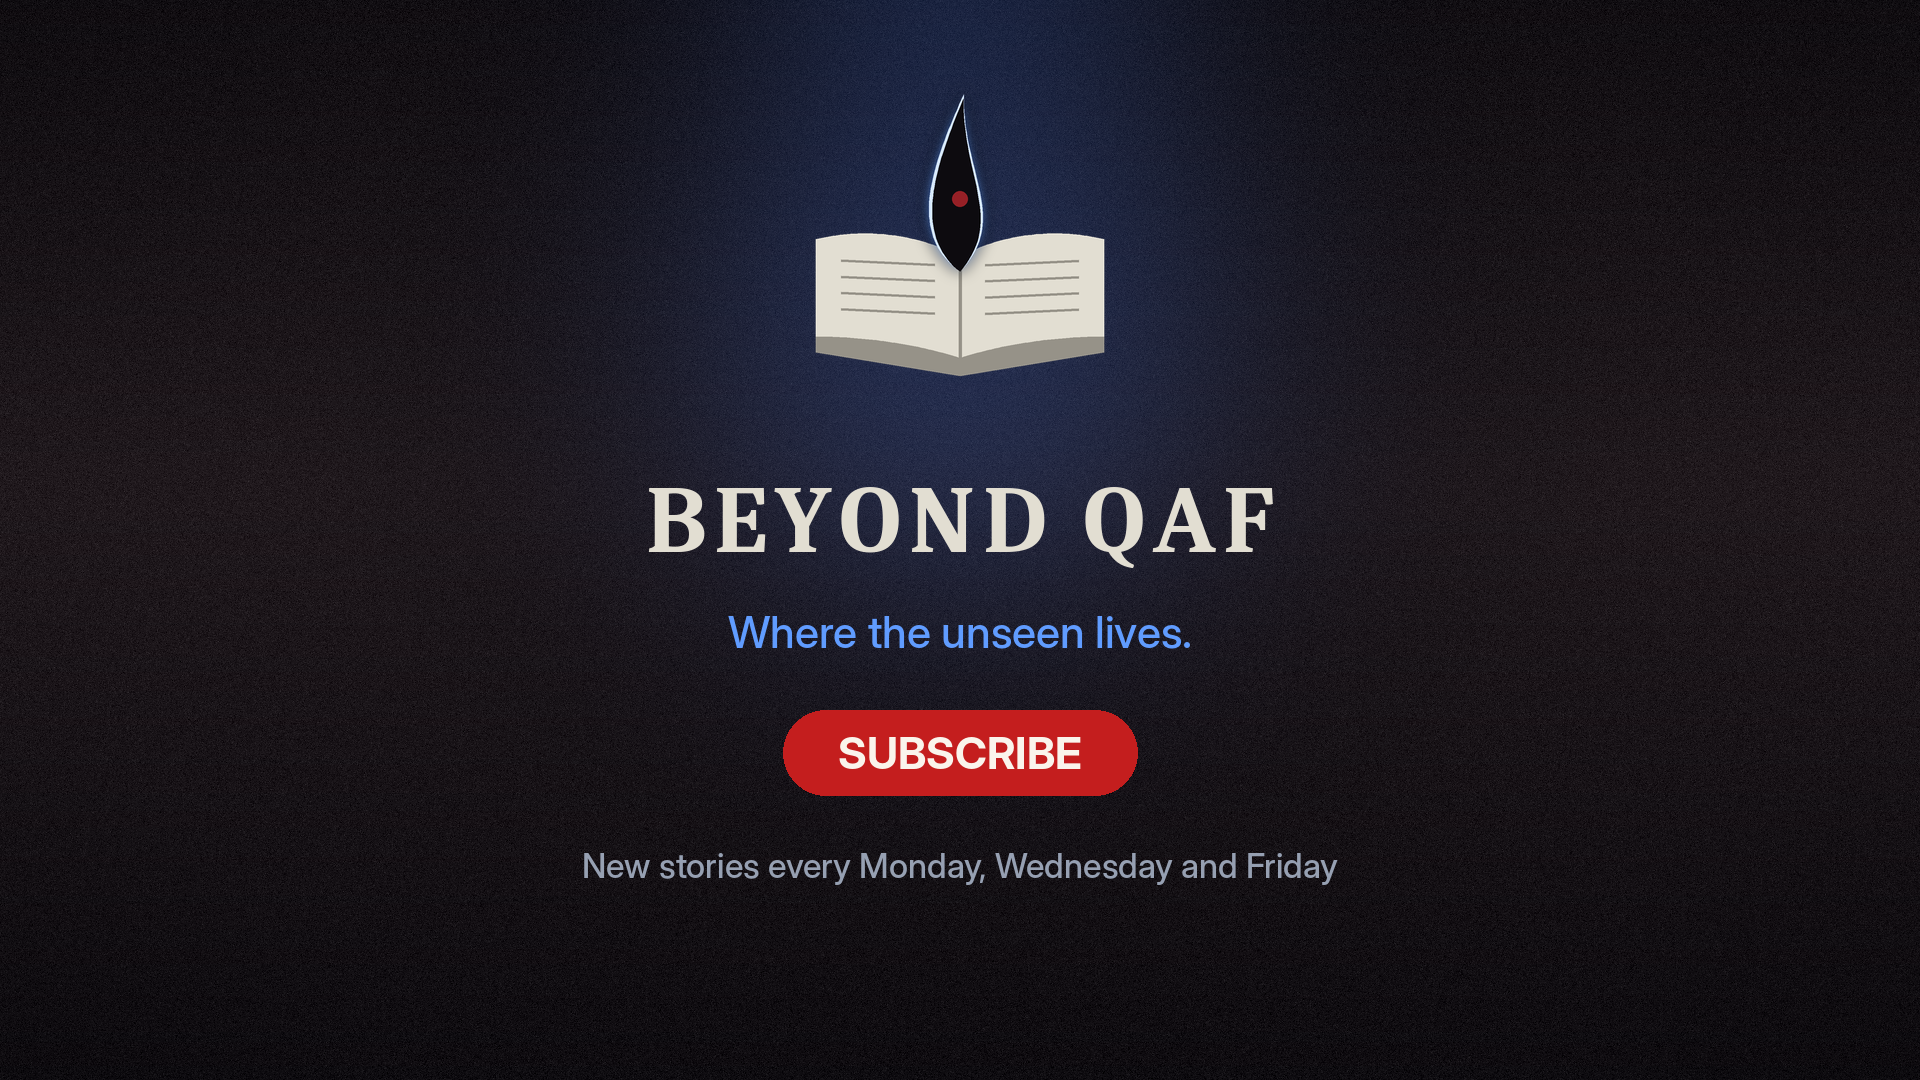
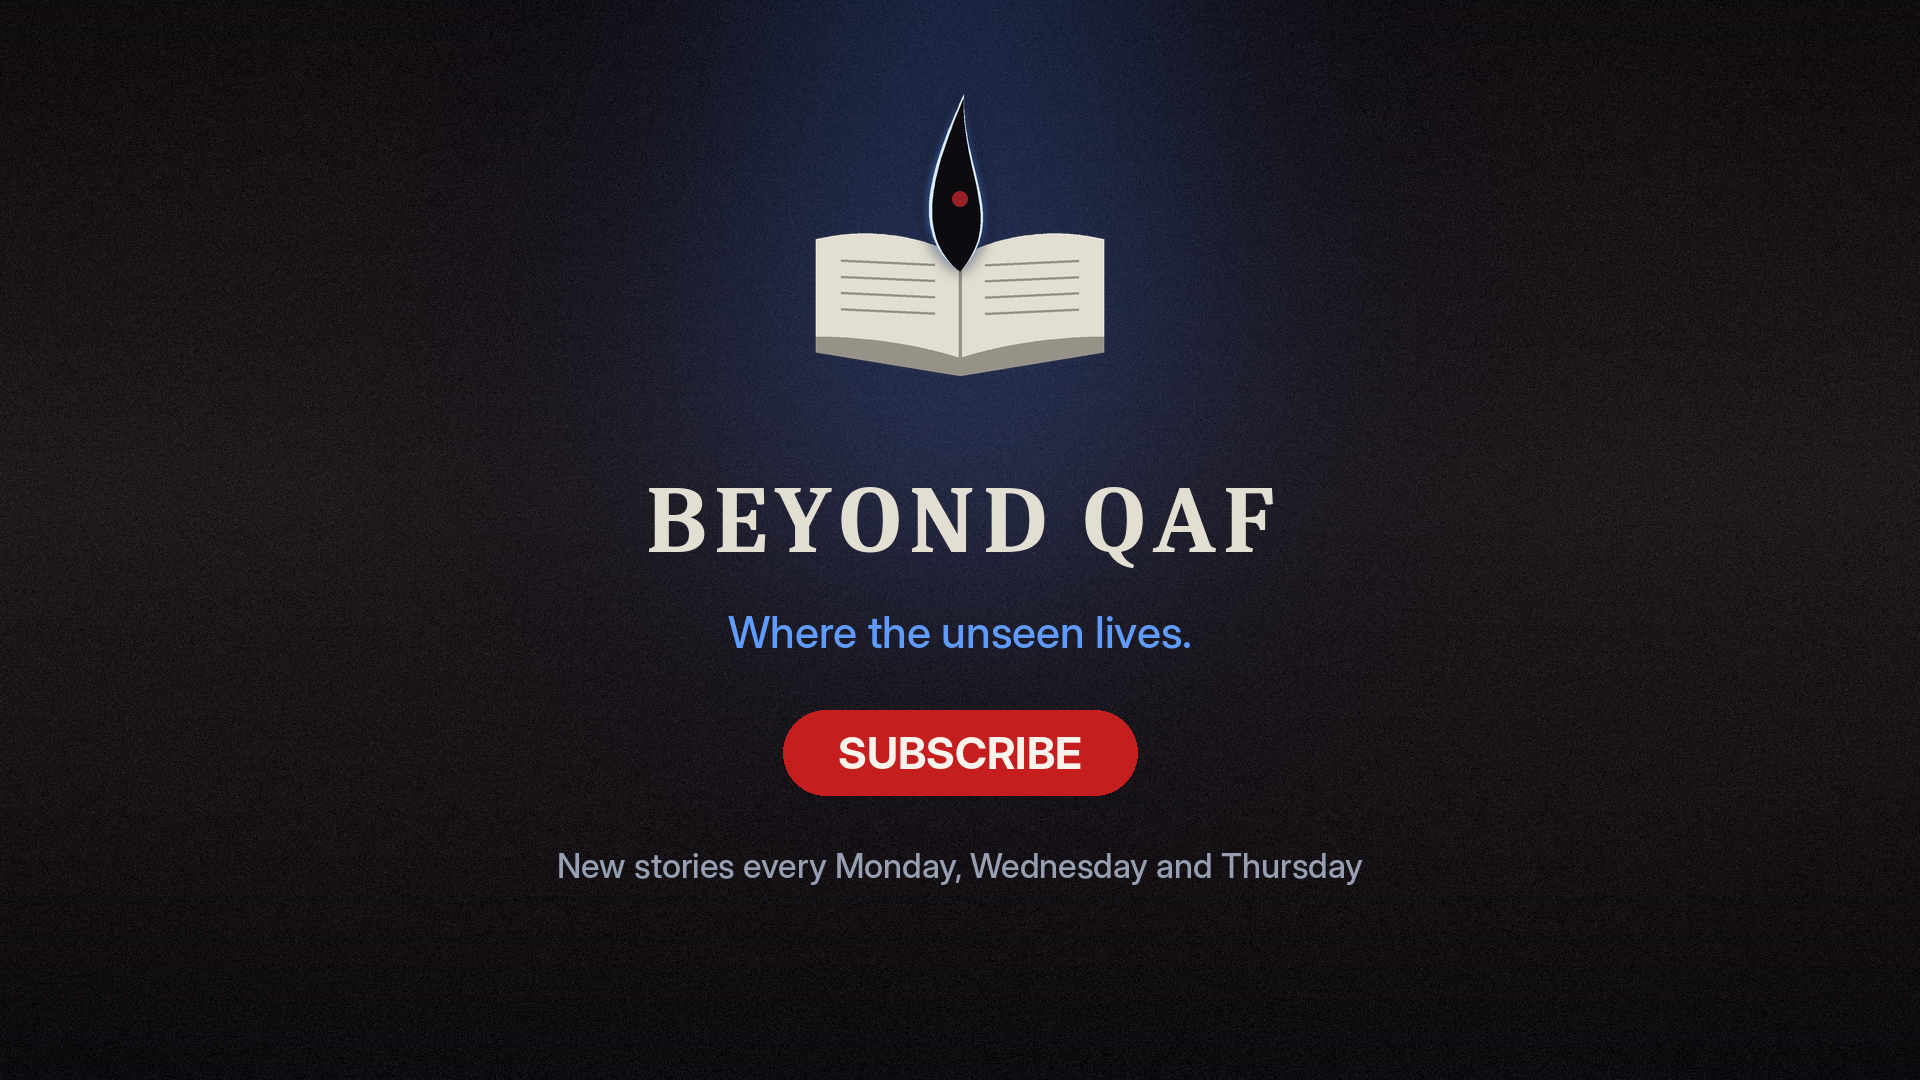
Günler: Gölgedefter Sal-Cuma-Cmt-Paz, Beyond Qaf Pzt-Çar-Per; afişler güncellendi
Claude-Session: https://claude.ai/code/session_01KEduYxbvw9kqpP4RbSKWb6

Changed region(s): [[0.2812, 0.7944, 0.7188, 0.825]]

diff --git a/brand_beyondqaf.py b/brand_beyondqaf.py
@@ -55,7 +55,7 @@ def make_outro_card(out):
     bw = d.textlength("SUBSCRIBE", font=bf) + 110
     d.rounded_rectangle([(W - bw) / 2, 710, (W + bw) / 2, 795], 42, fill=(196, 30, 30))
     center("SUBSCRIBE", bf, 726, (250, 244, 236))
-    center("New stories every Monday, Wednesday and Friday", g.font(g.INTER + "InterDisplay-Medium.otf", 34),
+    center("New stories every Monday, Wednesday and Thursday", g.font(g.INTER + "InterDisplay-Medium.otf", 34),
            845, g.SMOKE)
     im.save(out, quality=95)
     return out
@@ -76,7 +76,7 @@ def make_banner(out):
     g.spaced(d, (962, 560), "BEYOND", g.font(g.SERIF, 64), g.AMBER, track=0.32)
     g.spaced(d, (958, 625), "QAF", g.font(g.SERIF, 170), g.PARCH, track=0.10)
     d.text((966, 815), g.TAG, font=g.font(g.INTER + "InterDisplay-Medium.otf", 50), fill=g.PARCH_D)
-    d.text((966, 892), "NEW STORIES  ·  MON  ·  WED  ·  FRI",
+    d.text((966, 892), "NEW STORIES  ·  MON  ·  WED  ·  THU",
            font=g.font(g.INTER + "InterDisplay-Bold.otf", 34), fill=g.SMOKE)
     im.save(out, quality=92)
     return out

diff --git a/brand_golgedefter.py b/brand_golgedefter.py
@@ -274,9 +274,9 @@ def make_banner(out):
     d = ImageDraw.Draw(im)
     spaced(d, (960, 570), NAME, font(SERIF, 140), PARCH, track=0.08)  # güvenli alan: x ≤ 2053
     d.text((966, 765), TAG, font=font(INTER + "InterDisplay-Medium.otf", 60), fill=AMBER)
-    d.text((966, 842), "YENİ SAYFALAR · SALI · PERŞEMBE · CUMARTESİ · PAZAR",
+    d.text((966, 842), "YENİ SAYFALAR · SALI · CUMA · CUMARTESİ · PAZAR",
            font=font(INTER + "InterDisplay-Bold.otf", 30), fill=SMOKE)
-    d.text((966, 884), "HAFTA İÇİ 19:00  ·  HAFTA SONU 16:00",
+    d.text((966, 884), "SALI & CUMA 19:00  ·  HAFTA SONU 16:00",
            font=font(INTER + "InterDisplay-Bold.otf", 30), fill=AMBER)
     im.save(out, quality=92)
     return out

diff --git a/watchdog.py b/watchdog.py
@@ -19,8 +19,8 @@ TR = timezone(timedelta(hours=3))
 
 # kanal → (iş akışı, geçmiş dosyası, video günleri (TR, 0=Pzt), en erken müdahale saati (TR), ad)
 CHANNELS = [
-    ("otoyt.yml", ROOT / "history.json", {0, 2, 4}, 8, "Beyond Qaf"),
-    ("otoyt_tr.yml", ROOT / "data/golgedefter/history.json", {1, 3, 5}, 12, "Gölgedefter"),
+    ("otoyt.yml", ROOT / "history.json", {0, 2, 3}, 8, "Beyond Qaf"),
+    ("otoyt_tr.yml", ROOT / "data/golgedefter/history.json", {1, 4, 5, 6}, 12, "Gölgedefter"),
 ]
 # bu saate (TR) kadar video çıkmadıysa Furkan'a Telegram'dan haber ver
 ALARM_H = {"Beyond Qaf": 17, "Gölgedefter": 17}
